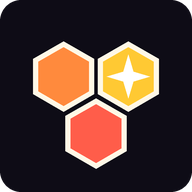
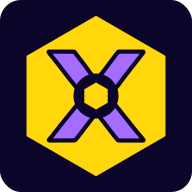
Xplr v49 : comptes Google, sauvegarde en ligne, icônes 3E
- v47-v48 : connexion Google, pseudo, sauvegarde et restauration en ligne
- v49 : renommage en Xplr
- Nouvelles icônes 3E, cache du service worker xplr-v7

diff --git a/index.html b/index.html
@@ -3,14 +3,14 @@
 <head>
 <meta charset="utf-8">
 <meta name="viewport" content="width=device-width, initial-scale=1, viewport-fit=cover">
-<title>Portulan</title>
+<title>Xplr</title>
 <link rel="manifest" href="manifest.webmanifest">
 <meta name="theme-color" content="#bfe6ff">
 <link rel="icon" type="image/png" sizes="32x32" href="favicon-32.png">
 <link rel="icon" type="image/png" sizes="192x192" href="icon-192.png">
 <link rel="apple-touch-icon" href="apple-touch-icon.png">
-<meta name="apple-mobile-web-app-title" content="Portulan">
-<meta name="application-name" content="Portulan">
+<meta name="apple-mobile-web-app-title" content="Xplr">
+<meta name="application-name" content="Xplr">
 <link rel="preconnect" href="https://fonts.googleapis.com">
 <link href="https://fonts.googleapis.com/css2?family=Fredoka:wght@400;500;600;700&display=swap" rel="stylesheet">
 <style>
@@ -290,6 +290,7 @@ body.sheet-open #gradeBox { display: none; }
 .gradelegend i { display: inline-block; width: 13px; height: 13px; margin-right: 7px; vertical-align: -2px; border-radius: 4px; border: 3px solid; background: rgba(43, 31, 74, 0.35); }
 details.advanced { margin-top: 10px; }
 details.advanced summary { cursor: pointer; font-size: 13px; color: var(--muted); }
+.gbtn { min-height: 44px; margin: 8px 0; }
 .gl-wrap { display: flex; align-items: stretch; margin-bottom: 6px; }
 .gl-wrap[hidden] { display: none; }
 .gl-wrap.off .gl-t { display: none; }   /* légende repliée : seuls les carrés de couleur restent */
@@ -400,7 +401,7 @@ body.sheet-open #cellcard { display: none; }
   };
 
   /* ================= état ================= */
-  var STRAVA_ID = "291286", STRAVA_RELAY = "https://portulan-relay.wjmn9bnkdg.workers.dev";   // identifiants publics de l’application Strava Portulan et de son relais (aucun secret ici)
+  var STRAVA_ID = "291286", STRAVA_RELAY = "https://portulan-relay.wjmn9bnkdg.workers.dev";   // identifiants publics de l’application Strava Xplr et de son relais (aucun secret ici)
   var S = { name: "", city: "", dept: "", photo: "", icon: 0, onboarded: false, rad: 1, basemap: "relief", nextId: 1, activities: [], goals: [], unlocked: null, colorMode: "uniform", lastBackup: 0, communes: {}, info: {}, gradeOutlines: true, gradeChosen: false, legendOff: false, strava: { clientId: STRAVA_ID, relay: STRAVA_RELAY, access: "", refresh: "", exp: 0, athlete: "", lastSync: 0, checkedAt: 0, auto: true, days: 30, bf: 0 } };
   var cells = new Map(), dispCells = cells;   // hexagone -> { sport, date } de la première découverte
   var periodF = "all", exploreOn = false, pending = null, me = null, peakHits = [], summitDraw = [], landmarkDraw = [], revealTimer = 0, dispVer = 0;
@@ -474,7 +475,7 @@ body.sheet-open #cellcard { display: none; }
   }
   function savedReplacer(k, v) { return k === "lines" && Array.isArray(v) ? encLines(v) : v; }
   function save() {
-    try { localStorage.setItem(KEY, JSON.stringify(S, savedReplacer)); storeWarnAt = 0; return true; }
+    try { localStorage.setItem(KEY, JSON.stringify(S, savedReplacer)); storeWarnAt = 0; scheduleBackup(); return true; }
     catch (e) {
       try { localStorage.setItem(KEY, JSON.stringify(Object.assign({}, S, { info: {} }), savedReplacer)); return true; }   // repli : sans les résumés Wikipédia (simple cache, retéléchargeable)
       catch (e2) { /* toujours impossible */ }
@@ -888,6 +889,164 @@ body.sheet-open #cellcard { display: none; }
       if (current === "add") render();
     }).then(function () { stravaBusy = false; });
   }
+  /* ===== Compte (connexion Google) et sauvegarde en ligne ===== */
+  var XPLR_API = window.__API || "https://xplr-api.wjmn9bnkdg.workers.dev", ACCT_KEY = "hexplore:acct:v1";
+  var acct = loadAcct(), acctMsg = "", bkTimer = 0, bkBusy = false, restoring = false, gsiLoading = null, acctSyncing = false;
+  function isDemo(a) { return !!a && (a.demo === true || a.name === "Boucle d’exemple"); }   // la boucle d’exemple n’est pas une vraie course : jamais sauvegardée ni partagée
+  function realActs() { return S.activities.filter(function (a) { return !isDemo(a); }); }
+  function loadAcct() { try { var o = JSON.parse(localStorage.getItem(ACCT_KEY) || "null"); return o && o.token ? o : null; } catch (e) { return null; } }
+  function saveAcct() { try { if (acct) localStorage.setItem(ACCT_KEY, JSON.stringify(acct)); else localStorage.removeItem(ACCT_KEY); } catch (e) { /* ignoré */ } }
+  function apiCall(method, path, body) {
+    var h = {}; if (acct && acct.token) h.Authorization = "Bearer " + acct.token; if (body !== undefined) h["Content-Type"] = "application/json";
+    return fetch(XPLR_API + path, { method: method, headers: h, body: body === undefined ? undefined : JSON.stringify(body) }).then(function (r) {
+      return r.json().catch(function () { return {}; }).then(function (j) {
+        if (r.status === 401 && acct && acct.token && path !== "/auth/google") { acct = null; saveAcct(); acctMsg = "Session expirée : reconnecte-toi."; }
+        if (!r.ok) { var e = new Error(j.error || ("HTTP " + r.status)); e.status = r.status; e.body = j; throw e; }
+        return j;
+      });
+    });
+  }
+  function toB64(buf) { var b = new Uint8Array(buf), s = "", i; for (i = 0; i < b.length; i += 8192) s += String.fromCharCode.apply(null, b.subarray(i, i + 8192)); return btoa(s); }
+  function fromB64(str) { var bin = atob(str), out = new Uint8Array(bin.length), i; for (i = 0; i < bin.length; i++) out[i] = bin.charCodeAt(i); return out; }
+  function packText(txt) {   // compression gzip quand le navigateur sait la faire
+    if (typeof CompressionStream === "undefined" || typeof Response === "undefined") return Promise.resolve({ enc: "json", data: txt });
+    var cs = new CompressionStream("gzip"), w = cs.writable.getWriter(); w.write(new TextEncoder().encode(txt)).catch(function () {}); w.close().catch(function () {});
+    return new Response(cs.readable).arrayBuffer().then(function (buf) { return { enc: "gzip-b64", data: toB64(buf) }; });
+  }
+  function unpackText(enc, data) {
+    if (enc !== "gzip-b64") return Promise.resolve(data);
+    if (typeof DecompressionStream === "undefined") return Promise.reject(new Error("navigateur trop ancien pour restaurer"));
+    var ds = new DecompressionStream("gzip"), w = ds.writable.getWriter(); w.write(fromB64(data)).catch(function () {}); w.close().catch(function () {});
+    return new Response(ds.readable).arrayBuffer().then(function (buf) { return new TextDecoder().decode(buf); });
+  }
+  function backupPayload() {   // ce qui part en ligne : jamais les jetons Strava ni les résumés Wikipédia (simple cache)
+    return JSON.stringify(Object.assign({}, S, { activities: realActs(), strava: { clientId: S.strava.clientId, relay: S.strava.relay, lastSync: S.strava.lastSync, auto: S.strava.auto, days: S.strava.days, bf: 0 }, info: {} }), savedReplacer);
+  }
+  function setAcctMsg(t) { acctMsg = t || ""; var m = $("acctmsg"); if (m) m.textContent = acctMsg; }
+  function refreshAcctUI() { if (drawerView === "settings" && $("drawer").classList.contains("open")) renderDrawer(); }
+  function doBackup(manual, force) {
+    clearTimeout(bkTimer);
+    if (!acct || bkBusy || restoring) return Promise.resolve(false);
+    if (!realActs().length) { if (manual) toast("Rien à sauvegarder : aucune course importée."); return Promise.resolve(false); }   // jamais d’envoi d’un état vide qui écraserait la sauvegarde
+    bkBusy = true;
+    return packText(backupPayload()).then(function (p) {
+      var body = { enc: p.enc, data: p.data, activities: realActs().length };
+      if (!force && acct.rev !== undefined && acct.rev !== null) body.baseRev = acct.rev;
+      return apiCall("PUT", "/backup", body);
+    }).then(function (r) {
+      bkBusy = false; acct.rev = r.rev; acct.lastBackup = Date.now(); saveAcct(); acctMsg = "";
+      if (manual) toast("Sauvegarde en ligne effectuée."); refreshAcctUI(); return true;
+    }, function (e) {
+      bkBusy = false;
+      if (e.status === 409) return handleConflict();
+      acctMsg = "Sauvegarde impossible : " + e.message; if (manual) toast(acctMsg); refreshAcctUI(); return false;
+    });
+  }
+  function handleConflict() {
+    if (window.confirm("Une sauvegarde plus récente existe en ligne (un autre appareil ?).\nOK = l’écraser avec les données de cet appareil.\nAnnuler = restaurer la sauvegarde en ligne ici.")) return doBackup(true, true);
+    return doRestore(true);
+  }
+  function scheduleBackup() { if (!acct || acct.auto === false || restoring || acctSyncing) return; clearTimeout(bkTimer); bkTimer = setTimeout(function () { doBackup(false); }, window.__BK_DELAY !== undefined ? window.__BK_DELAY : 20000); }   // une sauvegarde 20 s après le dernier changement
+  function applyBackup(txt) {
+    var keep = Object.assign({}, S.strava); restoring = true;
+    try {
+      localStorage.setItem(KEY, txt); loadState();
+      ["access", "refresh", "exp", "athlete"].forEach(function (k) { if (keep[k]) S.strava[k] = keep[k]; });   // la connexion Strava de cet appareil est conservée
+      selected = null; rebuild(); save(); fitAll(); renderDrawer();
+    } finally { restoring = false; }
+  }
+  function doRestore(skipConfirm) {
+    if (!acct) return Promise.resolve(false);
+    return apiCall("GET", "/backup").then(function (r) {
+      if (!r.backup) { toast("Aucune sauvegarde en ligne."); return false; }
+      if (!skipConfirm && realActs().length && !window.confirm("Remplacer les données de cet appareil (" + realActs().length + " course" + (realActs().length > 1 ? "s" : "") + ") par la sauvegarde en ligne ?")) return false;
+      return unpackText(r.backup.enc, r.backup.data).then(function (txt) {
+        var o = JSON.parse(txt); if (!o || !Array.isArray(o.activities)) throw new Error("sauvegarde illisible");
+        applyBackup(txt); acct.rev = r.backup.rev; acct.lastBackup = r.backup.updatedAt * 1000; saveAcct();
+        toast("Sauvegarde restaurée : " + realActs().length + " course" + (realActs().length > 1 ? "s" : "") + "."); return true;
+      });
+    }).catch(function (e) { toast("Restauration impossible : " + e.message); return false; });
+  }
+  function loadGsi() {
+    if (window.google && window.google.accounts && window.google.accounts.id) return Promise.resolve();
+    if (gsiLoading) return gsiLoading;
+    gsiLoading = new Promise(function (res, rej) {
+      var sc = document.createElement("script"); sc.src = "https://accounts.google.com/gsi/client"; sc.async = true;
+      sc.onload = function () { res(); }; sc.onerror = function () { gsiLoading = null; rej(new Error("Google injoignable")); }; document.head.appendChild(sc);
+    });
+    return gsiLoading;
+  }
+  function pseudoSuggestion(cred) {
+    try {
+      var p = JSON.parse(new TextDecoder("utf-8").decode(fromB64(cred.split(".")[1].replace(/-/g, "+").replace(/_/g, "/"))));   // charge utile en UTF-8 (accents)
+      return String(p.given_name || p.name || "").toLowerCase().normalize("NFD").replace(/[\u0300-\u036f]/g, "").replace(/[^a-z0-9_-]+/g, "").slice(0, 20);
+    } catch (e) { return ""; }
+  }
+  function afterLogin(user) {   // première synchronisation : on ne perd jamais de données sans demander
+    var cloud = user.backup, local = realActs().length;
+    if (cloud && !local) return doRestore(true);
+    if (cloud && local) {
+      if (window.confirm("Une sauvegarde en ligne existe (" + (cloud.activities || 0) + " course" + (cloud.activities > 1 ? "s" : "") + ").\nOK = la restaurer à la place des données de cet appareil.\nAnnuler = garder cet appareil et remplacer la sauvegarde en ligne.")) return doRestore(true);
+      return doBackup(true, true);
+    }
+    if (local) return doBackup(true, true);
+    return Promise.resolve(null);
+  }
+  function onGoogle(cred, nonce) {
+    setAcctMsg("Connexion…");
+    apiCall("POST", "/auth/google", { credential: cred, nonce: nonce }).then(function (r) {
+      acct = { token: r.token, expiresAt: r.expiresAt, user: r.user, rev: r.user.backup ? r.user.backup.rev : null, auto: true, suggest: pseudoSuggestion(cred) };
+      saveAcct(); acctMsg = ""; toast("Connecté."); acctSyncing = true;   // pas d’envoi automatique avant la première synchronisation
+      return afterLogin(r.user);
+    }).then(function () { acctSyncing = false; refreshAcctUI(); }, function (e) { acctSyncing = false; setAcctMsg("Connexion impossible : " + e.message); initGoogleButton(); });
+  }
+  function initGoogleButton() {
+    var box = $("gbtn"); if (!box || acct) return;
+    apiCall("GET", "/config").then(function (cfg) {
+      if (!cfg.googleClientId) { setAcctMsg("La connexion Google n’est pas encore configurée sur le serveur."); return null; }
+      return Promise.all([loadGsi(), apiCall("GET", "/auth/nonce")]).then(function (v) {
+        var nonce = v[1].nonce;
+        window.google.accounts.id.initialize({ client_id: cfg.googleClientId, nonce: nonce, callback: function (resp) { onGoogle(resp.credential, nonce); } });
+        box.innerHTML = ""; window.google.accounts.id.renderButton(box, { theme: "filled_black", size: "large", shape: "pill", text: "continue_with", locale: "fr" });
+      });
+    }).catch(function (e) { setAcctMsg("Comptes indisponibles pour le moment (" + e.message + ")."); });
+  }
+  function accountSettingsHTML() {
+    var h = '<h3>Compte</h3>';
+    if (!acct) {
+      return h + '<p class="note">Un compte sauvegarde tes courses en ligne et te permet de les retrouver sur un autre appareil. Les amis arrivent ensuite. Aucun mot de passe : Google confirme seulement ton identité.</p><div id="gbtn" class="gbtn"></div><p class="note" id="acctmsg">' + esc(acctMsg) + '</p>';
+    }
+    var u = acct.user || {};
+    h += '<p class="note">Connecté' + (u.pseudo ? ' : <b>' + esc(u.pseudo) + '</b>' : '') + '</p>';
+    if (!u.pseudo) h += '<div class="field"><label for="acctpseudo">Choisis ton pseudo (visible par tes amis)</label><input type="text" id="acctpseudo" value="' + esc(acct.suggest || "") + '" maxlength="20" autocomplete="off" autocapitalize="none"></div><div class="drawer-sec"><button class="btn block" id="acctpseudook">Valider le pseudo</button></div>';
+    h += '<p class="note" id="acctinfo">' + (acct.lastBackup ? 'Dernière sauvegarde : ' + new Date(acct.lastBackup).toLocaleString("fr-FR", { day: "2-digit", month: "2-digit", year: "numeric", hour: "2-digit", minute: "2-digit" }) + '.' : 'Pas encore de sauvegarde sur ce compte.') + '</p>' +
+      '<label class="gradechk" style="margin:8px 0"><input type="checkbox" id="acctauto"' + (acct.auto !== false ? ' checked' : '') + '><span>Sauvegarde automatique</span></label>' +
+      '<p class="note" id="acctmsg">' + esc(acctMsg) + '</p>' +
+      '<div class="drawer-sec"><button class="btn ghost block" id="acctbk">Sauvegarder maintenant</button></div>' +
+      '<div class="drawer-sec"><button class="btn ghost block" id="acctrs">Restaurer ma sauvegarde</button></div>' +
+      '<div class="drawer-sec"><button class="btn ghost block" id="acctout">Se déconnecter</button></div>' +
+      '<div class="drawer-sec"><button class="btn danger block" id="acctdel">Supprimer mon compte et mes données en ligne</button></div>';
+    return h;
+  }
+  function bindAccount() {
+    if (!acct) { initGoogleButton(); return; }
+    var pk = $("acctpseudook");
+    if (pk) pk.addEventListener("click", function () {
+      apiCall("PUT", "/me", { pseudo: $("acctpseudo").value }).then(function (u) {
+        acct.user = u; saveAcct(); if (!S.name) { S.name = u.pseudo; save(); } toast("Pseudo enregistré : " + u.pseudo); refreshAcctUI();
+      }, function (e) { setAcctMsg(e.message); });
+    });
+    $("acctauto").addEventListener("change", function (e) { acct.auto = e.target.checked; saveAcct(); if (acct.auto) scheduleBackup(); });
+    $("acctbk").addEventListener("click", function () { doBackup(true, false); });
+    $("acctrs").addEventListener("click", function () { doRestore(false); });
+    $("acctout").addEventListener("click", function () {
+      apiCall("POST", "/auth/logout").catch(function () { /* le jeton local est de toute façon retiré */ }).then(function () { acct = null; saveAcct(); acctMsg = ""; toast("Déconnecté."); refreshAcctUI(); });
+    });
+    $("acctdel").addEventListener("click", function () {
+      if (!window.confirm("Supprimer définitivement ton compte et ta sauvegarde en ligne ?\nTes courses restent sur cet appareil. Cette action est irréversible.")) return;
+      apiCall("DELETE", "/me").then(function () { acct = null; saveAcct(); acctMsg = ""; toast("Compte supprimé."); refreshAcctUI(); }, function (e) { setAcctMsg("Suppression impossible : " + e.message); });
+    });
+  }
   function stravaSettingsHTML() {
     var s = S.strava, sel = [[30, "30 derniers jours"], [365, "12 derniers mois"], [1095, "3 dernières années"]].map(function (o) { return '<option value="' + o[0] + '"' + (s.days === o[0] ? " selected" : "") + '>' + o[1] + '</option>'; }).join("");
     var h = '<h3>Strava</h3>';
@@ -905,7 +1064,7 @@ body.sheet-open #cellcard { display: none; }
         '<div class="drawer-sec"><button class="btn block stravabtn" id="stvconnect">Se connecter avec Strava</button></div>' +
         '<details class="advanced"><summary>Paramètres techniques (déjà renseignés)</summary>' +
         '<div class="field"><label for="stvid">Identifiant client Strava</label><input type="text" id="stvid" value="' + esc(s.clientId) + '" autocomplete="off" inputmode="numeric"></div>' +
-        '<div class="field"><label for="stvrelay">Adresse du relais</label><input type="text" id="stvrelay" value="' + esc(s.relay) + '" placeholder="https://portulan-relay.….workers.dev" autocomplete="off"></div></details>';
+        '<div class="field"><label for="stvrelay">Adresse du relais</label><input type="text" id="stvrelay" value="' + esc(s.relay) + '" placeholder="https://….workers.dev" autocomplete="off"></div></details>';
     }
     return h + '<p class="note" id="stvstatus"></p><p class="note">Powered by Strava</p>';
   }
@@ -1681,7 +1840,7 @@ body.sheet-open #cellcard { display: none; }
   }
   /* ================= vue agrégée à fort dézoom ================= */
   var EDGE_M = { 11: 24.9, 10: 65.9, 9: 174.4, 8: 461.4, 7: 1220.6, 6: 3229.5, 5: 8544.4, 4: 22606.4, 3: 59810.9, 2: 158244.7, 1: 418676, 0: 1107712 };
-  var BUILD = "25/10/2026 · v46";
+  var BUILD = "25/10/2026 · v49";
   var FINE_MAX_MPP = 9.5, FINE_MAX_CELLS = 40000, tinyHex = false, tinyS = 1.5;   // hexagones fins, sans teinte, jusqu’à environ 9,5 m par pixel (échelle de 500 m sur un téléphone)
   var MIN_AGG_RES = 3;   // plus gros polygone affiché : niveau H3 3 (≈ 12 393 km² par hexagone)
   var aggCache = { key: "", byRes: {} };
@@ -2439,15 +2598,15 @@ body.sheet-open #cellcard { display: none; }
       g.font = "700 72px " + fam; g.fillText(fmtKm2(totalKm2()) + " km²", mx, 1190);
       g.font = "500 36px " + fam; g.fillText(fmt(cells.size, 0) + " hexagones · " + st.summits + (st.summits > 1 ? " sommets" : " sommet"), mx, 1245);
       g.fillText(S.name ? S.name : "Explorateur" + (lvl ? " · " + TROPHIES[lvl - 1].name : ""), mx, 1295);
-      g.textAlign = "right"; g.font = "700 44px " + fam; g.fillText("Portulan", w - mx, 1295);
+      g.textAlign = "right"; g.font = "700 44px " + fam; g.fillText("Xplr", w - mx, 1295);
       return c;
     }
     function out(c) {
       c.toBlob(function (blob) {
         if (!blob) { toast("Création de l’image impossible."); return; }
-        var file = new File([blob], "portulan-carte.png", { type: "image/png" });
-        if (navigator.canShare && navigator.canShare({ files: [file] })) { navigator.share({ files: [file], title: "Ma carte Portulan" }).catch(function () { /* annulé */ }); return; }
-        var a = document.createElement("a"); a.href = URL.createObjectURL(blob); a.download = "portulan-carte.png"; document.body.appendChild(a); a.click();
+        var file = new File([blob], "xplr-carte.png", { type: "image/png" });
+        if (navigator.canShare && navigator.canShare({ files: [file] })) { navigator.share({ files: [file], title: "Ma carte Xplr" }).catch(function () { /* annulé */ }); return; }
+        var a = document.createElement("a"); a.href = URL.createObjectURL(blob); a.download = "xplr-carte.png"; document.body.appendChild(a); a.click();
         setTimeout(function () { URL.revokeObjectURL(a.href); a.remove(); }, 500);
       }, "image/png");
     }
@@ -2753,6 +2912,7 @@ body.sheet-open #cellcard { display: none; }
     var bm = [["relief", "Relief ombré (discret)"], ["esri", "Satellite (monde)"], ["ign", "Satellite IGN (France)"], ["none", "Aucun fond"]].map(function (o) { return '<option value="' + o[0] + '"' + (S.basemap === o[0] ? " selected" : "") + '>' + o[1] + '</option>'; }).join("");
     return '<h2 class="drawer-title">Réglages</h2>' +
       '<div class="field"><label for="bmsel">Fond de carte</label><select id="bmsel">' + bm + '</select></div>' +
+      accountSettingsHTML() +
       stravaSettingsHTML() +
       '<div class="drawer-sec"><button class="btn ghost block" id="scanpk">Tout recalculer (sommets, lieux, communes)</button></div>' +
       '<div class="drawer-sec"><button class="btn ghost block" id="updapp">Mettre à jour l’appli (vider le cache)</button></div>' +
@@ -2814,11 +2974,12 @@ body.sheet-open #cellcard { display: none; }
     $("scanpk").addEventListener("click", recomputeAll);
     $("updapp").addEventListener("click", forceUpdate);
     $("diagbtn").addEventListener("click", runDiagnostic);
+    bindAccount();
     bindStrava();
     $("exp").addEventListener("click", function () {
       S.lastBackup = Date.now(); save();
       var blob = new Blob([JSON.stringify({ app: "hexplore", version: 1, data: Object.assign({}, S, { strava: undefined }) })], { type: "application/json" });
-      var a = document.createElement("a"); a.href = URL.createObjectURL(blob); a.download = "portulan-sauvegarde.json"; document.body.appendChild(a); a.click();
+      var a = document.createElement("a"); a.href = URL.createObjectURL(blob); a.download = "xplr-sauvegarde.json"; document.body.appendChild(a); a.click();
       setTimeout(function () { URL.revokeObjectURL(a.href); a.remove(); }, 500);
     });
     $("imp").addEventListener("change", function (e) {
@@ -2872,7 +3033,7 @@ body.sheet-open #cellcard { display: none; }
         demo.push({ p: [45.9 + r * 0.72 * Math.sin(a) + rnd() * 0.00006, 6.13 + r * Math.cos(a) + rnd() * 0.00008], t: null });
       }
       var b = buildLines(demo, 60);
-      S.activities.push({ id: S.nextId++, name: "Boucle d’exemple", sport: "trail", date: todayISO(), dist: b.dist, skipped: 0, lines: b.lines, summits: [], landmarks: [], sumDone: true, lmDone: true, poiV: 2 });   // exemple : aucune recherche en ligne
+      S.activities.push({ id: S.nextId++, name: "Boucle d’exemple", demo: true, sport: "trail", date: todayISO(), dist: b.dist, skipped: 0, lines: b.lines, summits: [], landmarks: [], sumDone: true, lmDone: true, poiV: 2 });   // exemple : aucune recherche en ligne
     }
     resize(); rebuild(); checkAchievements(true); initExtras();
     if (S.activities.length) fitAll(); else draw();

diff --git a/sw.js b/sw.js
@@ -1,6 +1,6 @@
-/* Portulan : mise en cache de l’application pour un usage hors ligne.
+/* Xplr : mise en cache de l’application pour un usage hors ligne.
    Les fonds de carte et les services externes (sommets, communes, recherche) restent en ligne. */
-var CACHE = "portulan-v5";
+var CACHE = "xplr-v7";
 var H3 = "https://cdn.jsdelivr.net/npm/h3-js@4.1.0/dist/h3-js.umd.js";
 var SHELL = ["./", "index.html", "manifest.webmanifest", "icon-192.png", "icon-512.png", "icon-maskable-512.png", "apple-touch-icon.png", "favicon-32.png", H3];
 
